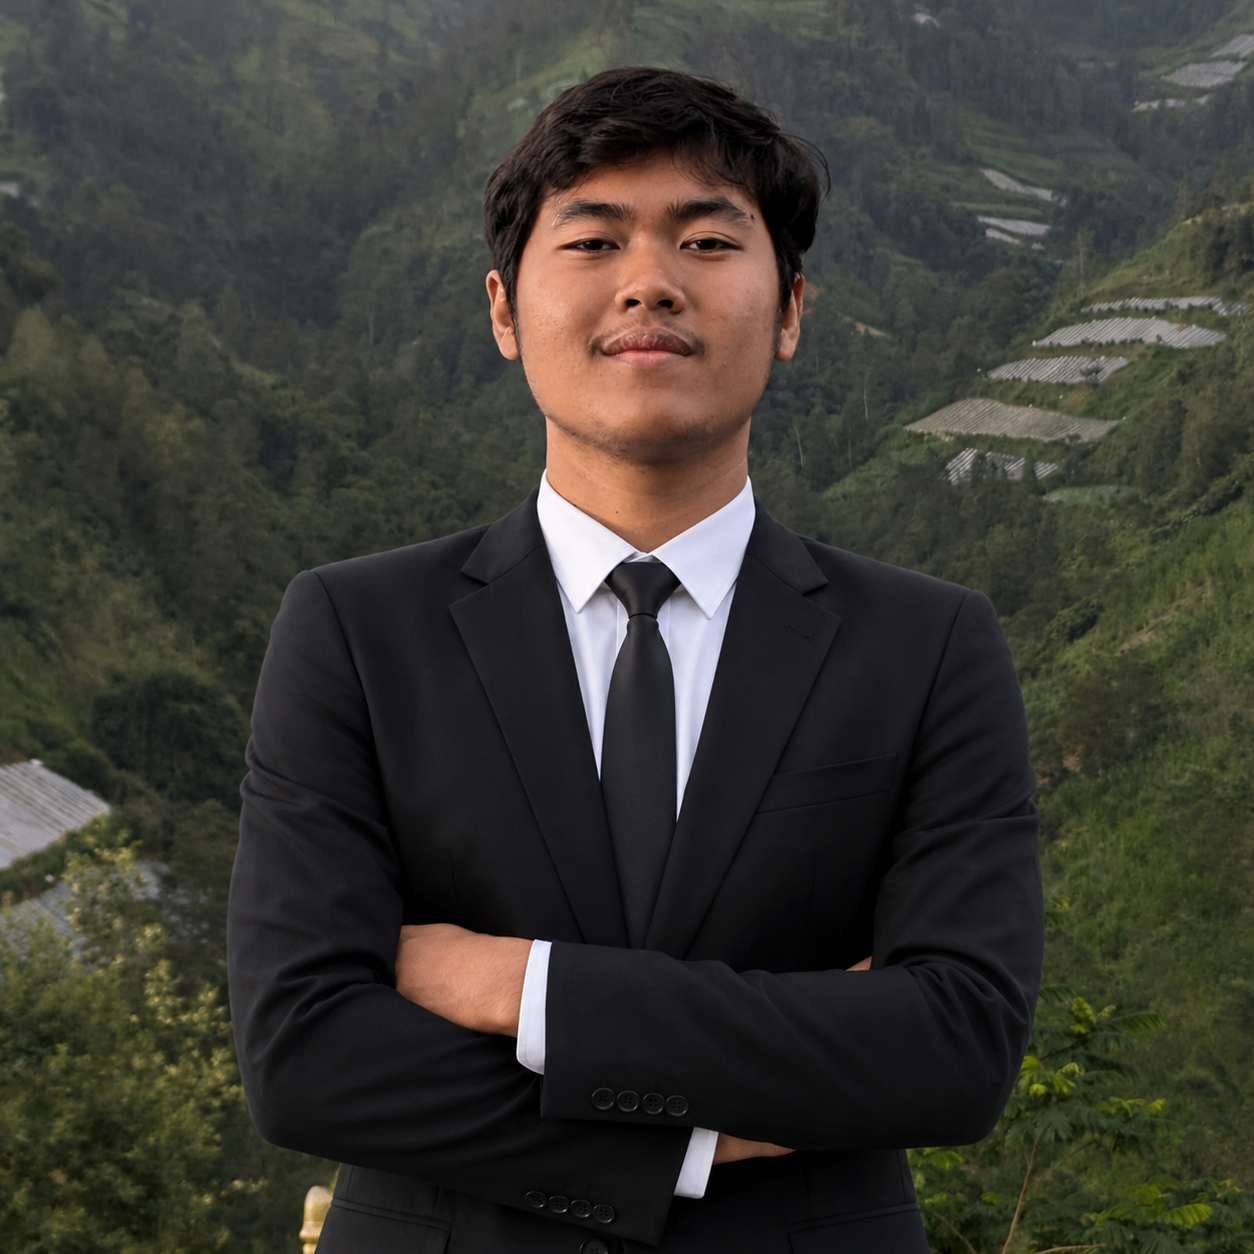
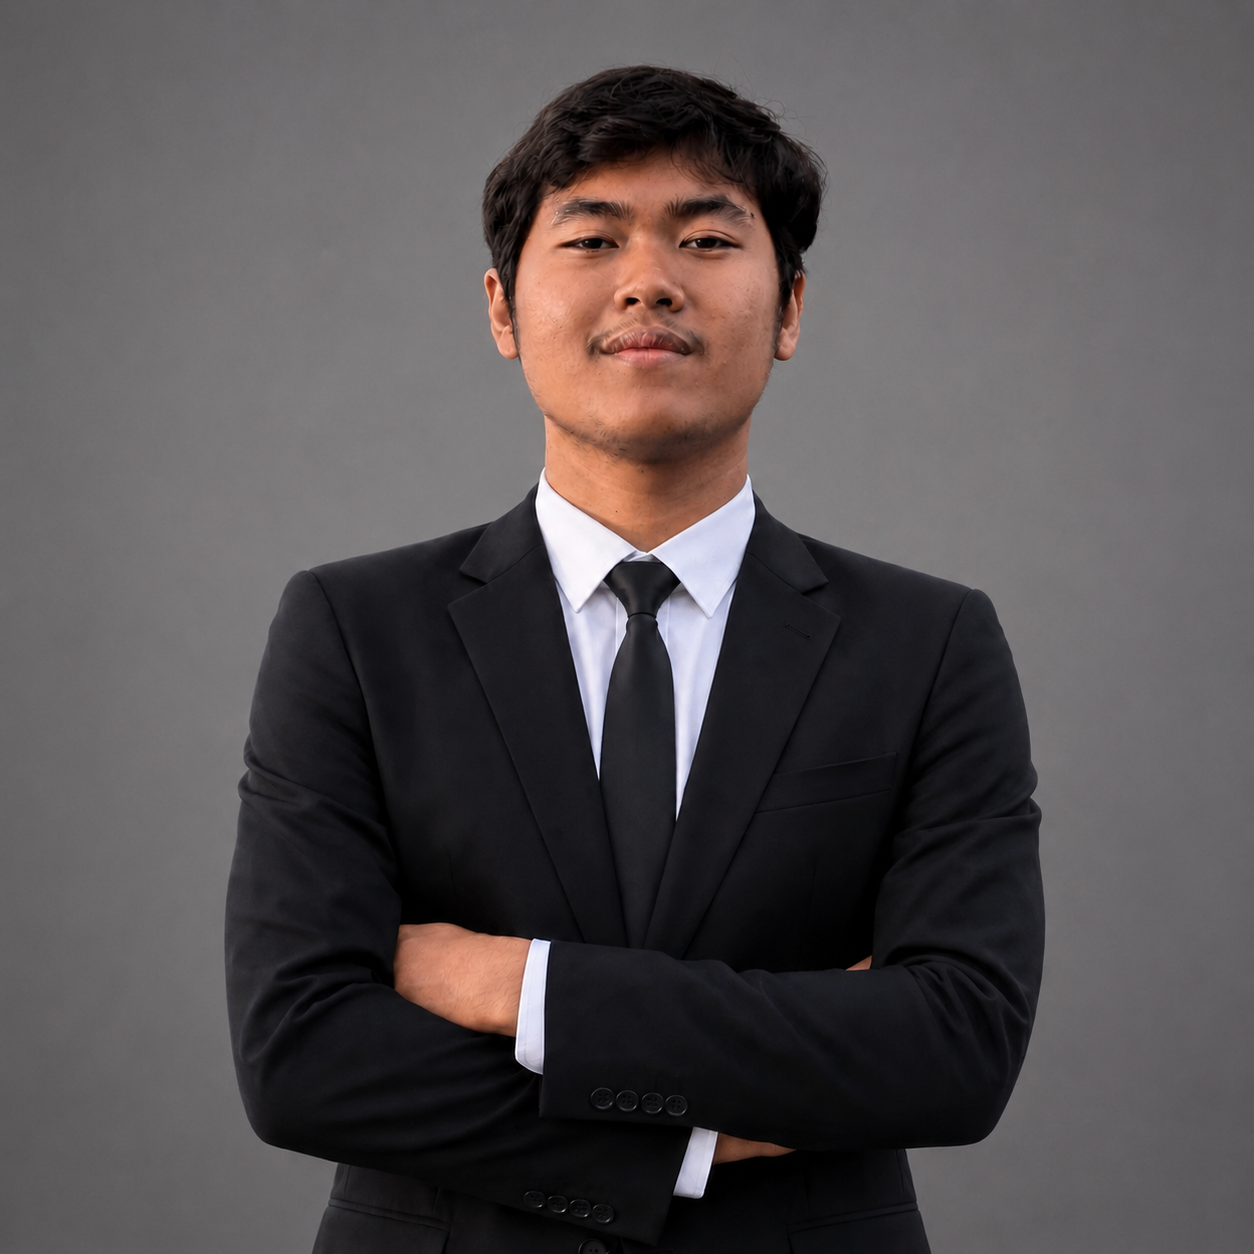
feat: implement contact form and showcase tabbed section with new assets

diff --git a/src/components/Showcase.jsx b/src/components/Showcase.jsx
@@ -24,7 +24,7 @@ const Showcase = () => {
     <section id="showcase" className="showcase">
       <div className="container">
         <div className="showcase-header reveal">
-          <h2 className="section-title">{t('showcase.title')} <span className="text-gradient">{t('showcase.title_highlight')}</span></h2>
+          <h2 className="section-title">{t('showcase.title')} <span className="">{t('showcase.title_highlight')}</span></h2>
           <p className="section-subtitle">{t('showcase.subtitle')}</p>
         </div>
 

diff --git a/src/components/Contact.jsx b/src/components/Contact.jsx
@@ -37,7 +37,7 @@ const Contact = () => {
     <section id="contact" className="contact">
       <div className="container">
         <h2 className="section-title reveal">
-          {t('contact.title')} <span className="text-gradient">{t('contact.title_highlight')}</span>
+          {t('contact.title')} <span className="">{t('contact.title_highlight')}</span>
         </h2>
         <p className="section-subtitle reveal">
           {t('contact.subtitle')}
